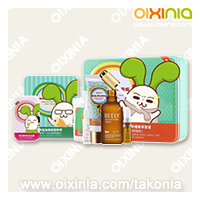
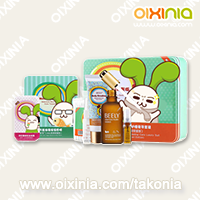
还原产品图描边，因为可以换成用代码形式实现
licensing加产品图的描边

Changed region(s): [[0.12, 0.96, 0.93, 0.99], [0.96, 0.06, 0.99, 0.09]]

diff --git a/licensing.html b/licensing.html
@@ -137,13 +137,13 @@
                     <div class="clearfix"></div>
                     <h2 class="section-heading" title="Products">OIXINIA產品<small><a href="gallery.html">More</a></small></h2>
                 </div>
-				<div class="col-lg-3 col-sm-6 text-center" style="padding-top:20px;"> <img class="img-responsive img-center" src="img/gallery/200x200-3.png" alt="">
+				<div class="col-lg-3 col-sm-6 text-center" style="padding-top:20px;"> <img class="img-responsive img-center img-border" src="img/gallery/200x200-3.png" alt="">
 				</div>
-				<div class="col-lg-3 col-sm-6 text-center" style="padding-top:20px;"> <img class="img-responsive img-center" src="img/gallery/200x200-2.png" alt="">
+				<div class="col-lg-3 col-sm-6 text-center" style="padding-top:20px;"> <img class="img-responsive img-center img-border" src="img/gallery/200x200-2.png" alt="">
 				</div>
-				<div class="col-lg-3 col-sm-6 text-center" style="padding-top:20px;"> <img class="img-responsive img-center" src="img/gallery/200x200-6.png" alt="">
+				<div class="col-lg-3 col-sm-6 text-center" style="padding-top:20px;"> <img class="img-responsive img-center img-border" src="img/gallery/200x200-6.png" alt="">
 				</div>
-				<div class="col-lg-3 col-sm-6 text-center" style="padding-top:20px;"> <img class="img-responsive img-center" src="img/gallery/200x200-4.png" alt="">
+				<div class="col-lg-3 col-sm-6 text-center" style="padding-top:20px;"> <img class="img-responsive img-center img-border" src="img/gallery/200x200-4.png" alt="">
 				</div>
             </div>
 
